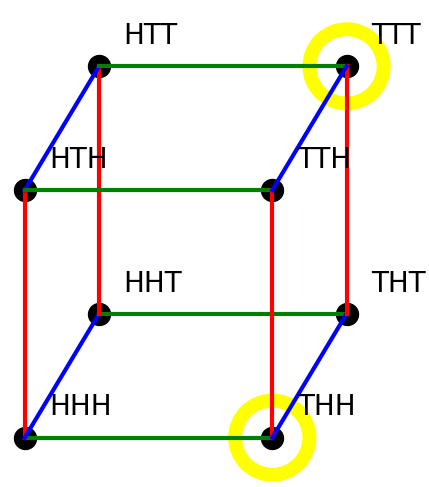
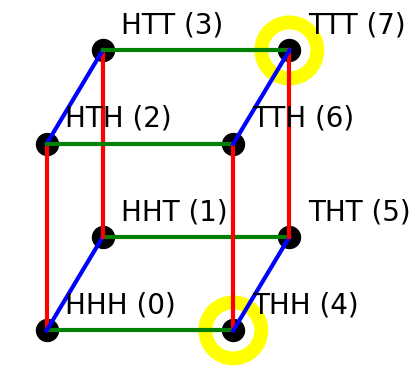
Added integers to picture

Changed region(s): [[0.0289, 0.0297, 1.0, 1.0], [0.3181, 0.2676, 0.4337, 0.3568]]

diff --git a/cube.py b/cube.py
@@ -15,22 +15,24 @@ B = np.array([
     [1,1,0],
     [1,1,1]])
 
-fig = pylab.figure()
-ax = fig.add_subplot()
-BX = np.dot(B,X)
-for i in range(4):
-    pylab.plot([BX[i,0],BX[i+4,0]],[BX[i,1],BX[i+4,1]],color = 'green', linewidth=3)
-    i2 = [0,1,4,5][i]
-    pylab.plot([BX[i2,0],BX[i2+2,0]],[BX[i2,1],BX[i2+2,1]],color = 'red', linewidth=3)
-    i3 = 2*i
-    pylab.plot([BX[i3,0],BX[i3+1,0]],[BX[i3,1],BX[i3+1,1]],color = 'blue', linewidth=3)
-for i in range(8):
-    label = ''.join([['H','T'][e] for e in B[i]])
-    pylab.text(BX[i,0] + 0.1, BX[i,1] + 0.09,f'{label}', size = 20)
-pylab.scatter(BX[:,0],BX[:,1],s = 250, color = 'black')
-pylab.grid(False)
-pylab.axis('off')
-for i in [4,7]:
-    circ = pylab.Circle((BX[i,0],BX[i,1]),0.15,fill = False, color = 'yellow', linewidth = 10)
-    ax.add_patch(circ)
-ax.axis('equal')
+def draw_cube():
+    fig = pylab.figure()
+    ax = fig.add_subplot()
+    BX = np.dot(B,X)
+    for i in range(4):
+        pylab.plot([BX[i,0],BX[i+4,0]],[BX[i,1],BX[i+4,1]],color = 'green', linewidth=3)
+        i2 = [0,1,4,5][i]
+        pylab.plot([BX[i2,0],BX[i2+2,0]],[BX[i2,1],BX[i2+2,1]],color = 'red', linewidth=3)
+        i3 = 2*i
+        pylab.plot([BX[i3,0],BX[i3+1,0]],[BX[i3,1],BX[i3+1,1]],color = 'blue', linewidth=3)
+    for i in range(8):
+        label = ''.join([['H','T'][e] for e in B[i]])
+        pylab.text(BX[i,0] + 0.1, BX[i,1] + 0.09,f'{label} ({i})', size = 20)
+    pylab.scatter(BX[:,0],BX[:,1],s = 250, color = 'black')
+    pylab.grid(False)
+    pylab.axis('off')
+    for i in [4,7]:
+        circ = pylab.Circle((BX[i,0],BX[i,1]),0.15,fill = False, color = 'yellow', linewidth = 10)
+        ax.add_patch(circ)
+    ax.axis('equal')
+    

diff --git a/multi_obs_qm.tex b/multi_obs_qm.tex
@@ -65,15 +65,16 @@ We don't always get to measure the exact configuration.  For instance, we might 
     & = \{4,7\} \hspace{0.4 in} \text{(THH, TTT)}
 \end{split}
 \]
-where $c_i(s)$ is the value $x_i$.  Someone could make a measurement that tells them that the state is in $S$ and nothing else.  This would be a specific case of a projection measurement.  The wavefunction becomes zero exactly on $p_i$ where $i \not \in S$ and just renormalizes $p_i$ on the remaining $i \in S$.
+where $c_i(s)$ is the value $x_i$.
 
 \begin{figure}[h]
 \centering
-\includegraphics[scale=0.3]{cube.png}
+\includegraphics[scale=0.6]{cube.png}
 \caption{Coin configurations with $S$ circled in yellow.}
 \label{masslessshell}
 \end{figure}
 
+Someone could make a measurement that tells them that the state is in $S$ and nothing else.  This would be a specific case of a projection measurement.  The wavefunction becomes zero exactly on $p_i$ where $i \not \in S$ and just renormalizes $p_i$ on the remaining $i \in S$.
 
 \subsubsection{Bayesian Inference as General Classical Wave Function Collapse}
 A more general type measurement is a probabilistic measurement.  Someone could learn that there is a 95\% chance that the state is in $S$.  In full generality we will call such a probabilistic observation $\mathcal{O}$.  We can figure out how to update our knowledge statement from $p_i$, to $\hat{p_i}$, using a relative\footnote{In the ratio, the contribution of $P(\mathcal{O})$ is canceled out and accounted for during normalization.  $P(\mathcal{O})$ only holds significance prior to its observation and it doesn't require consideration during the update process.} version of Bayes's rule
